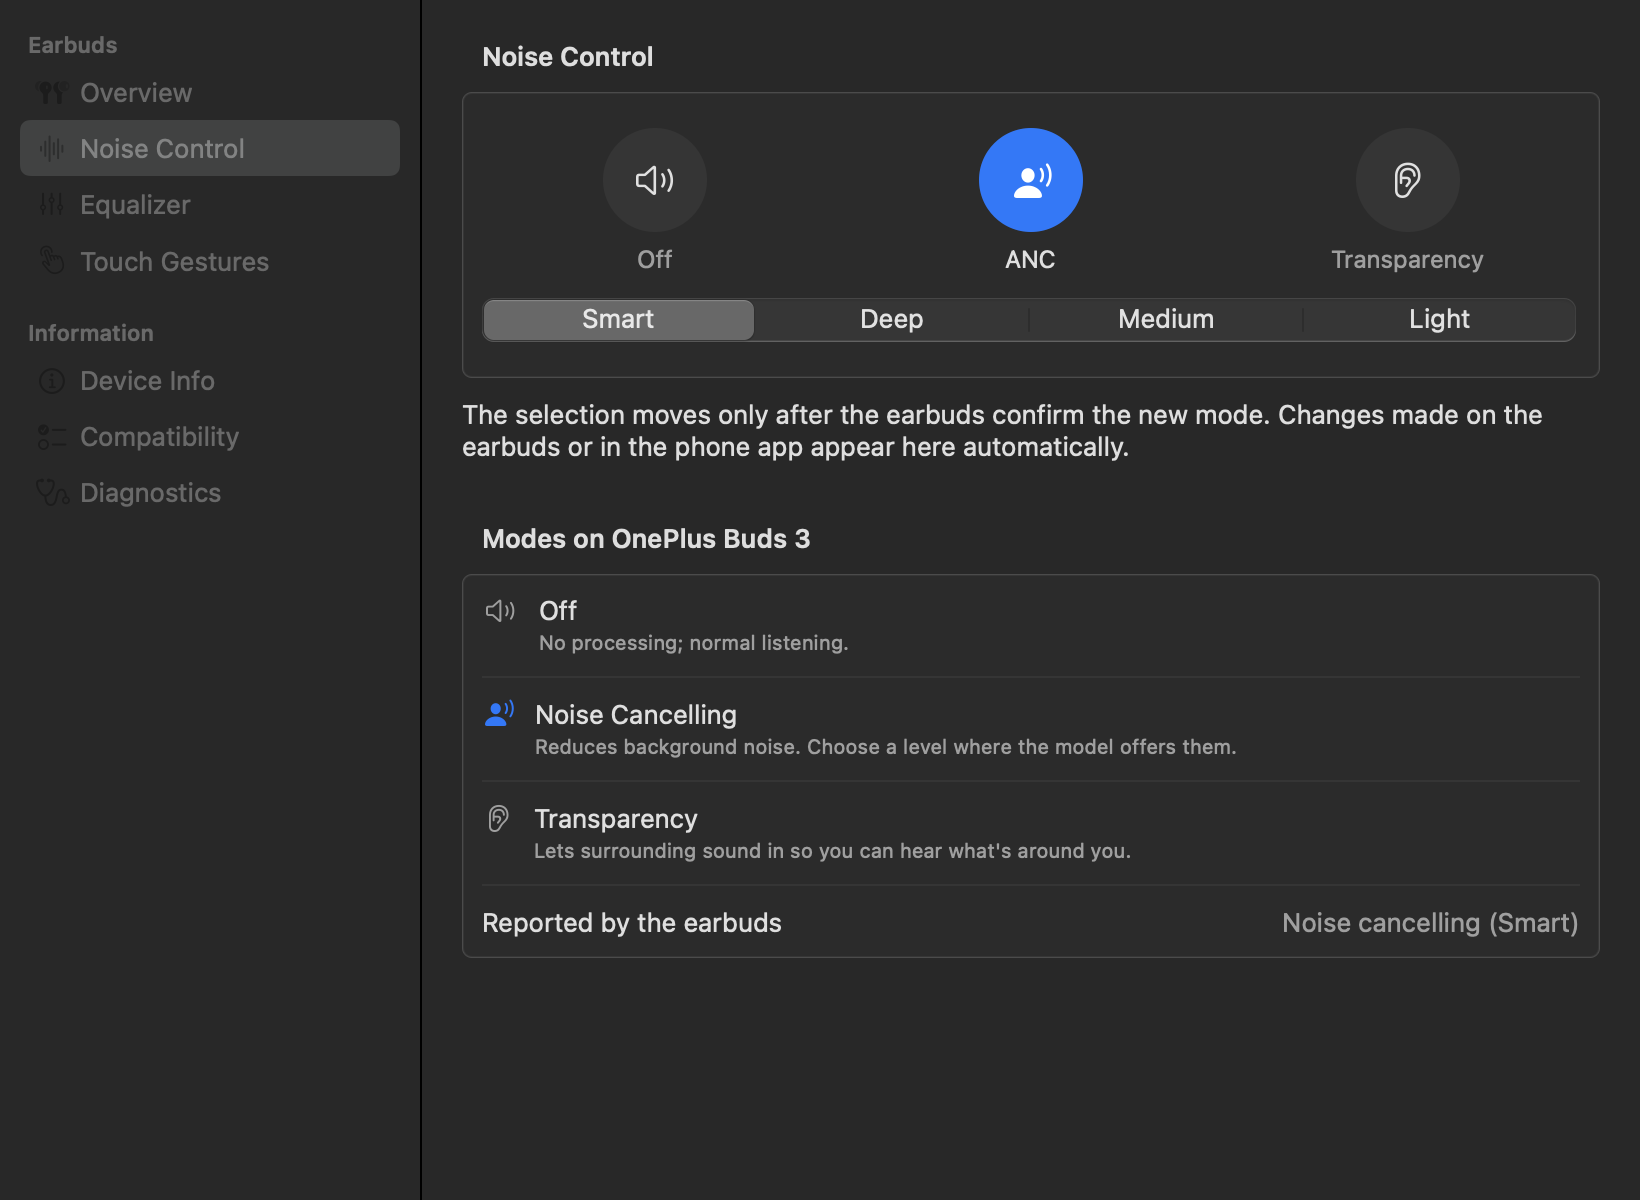
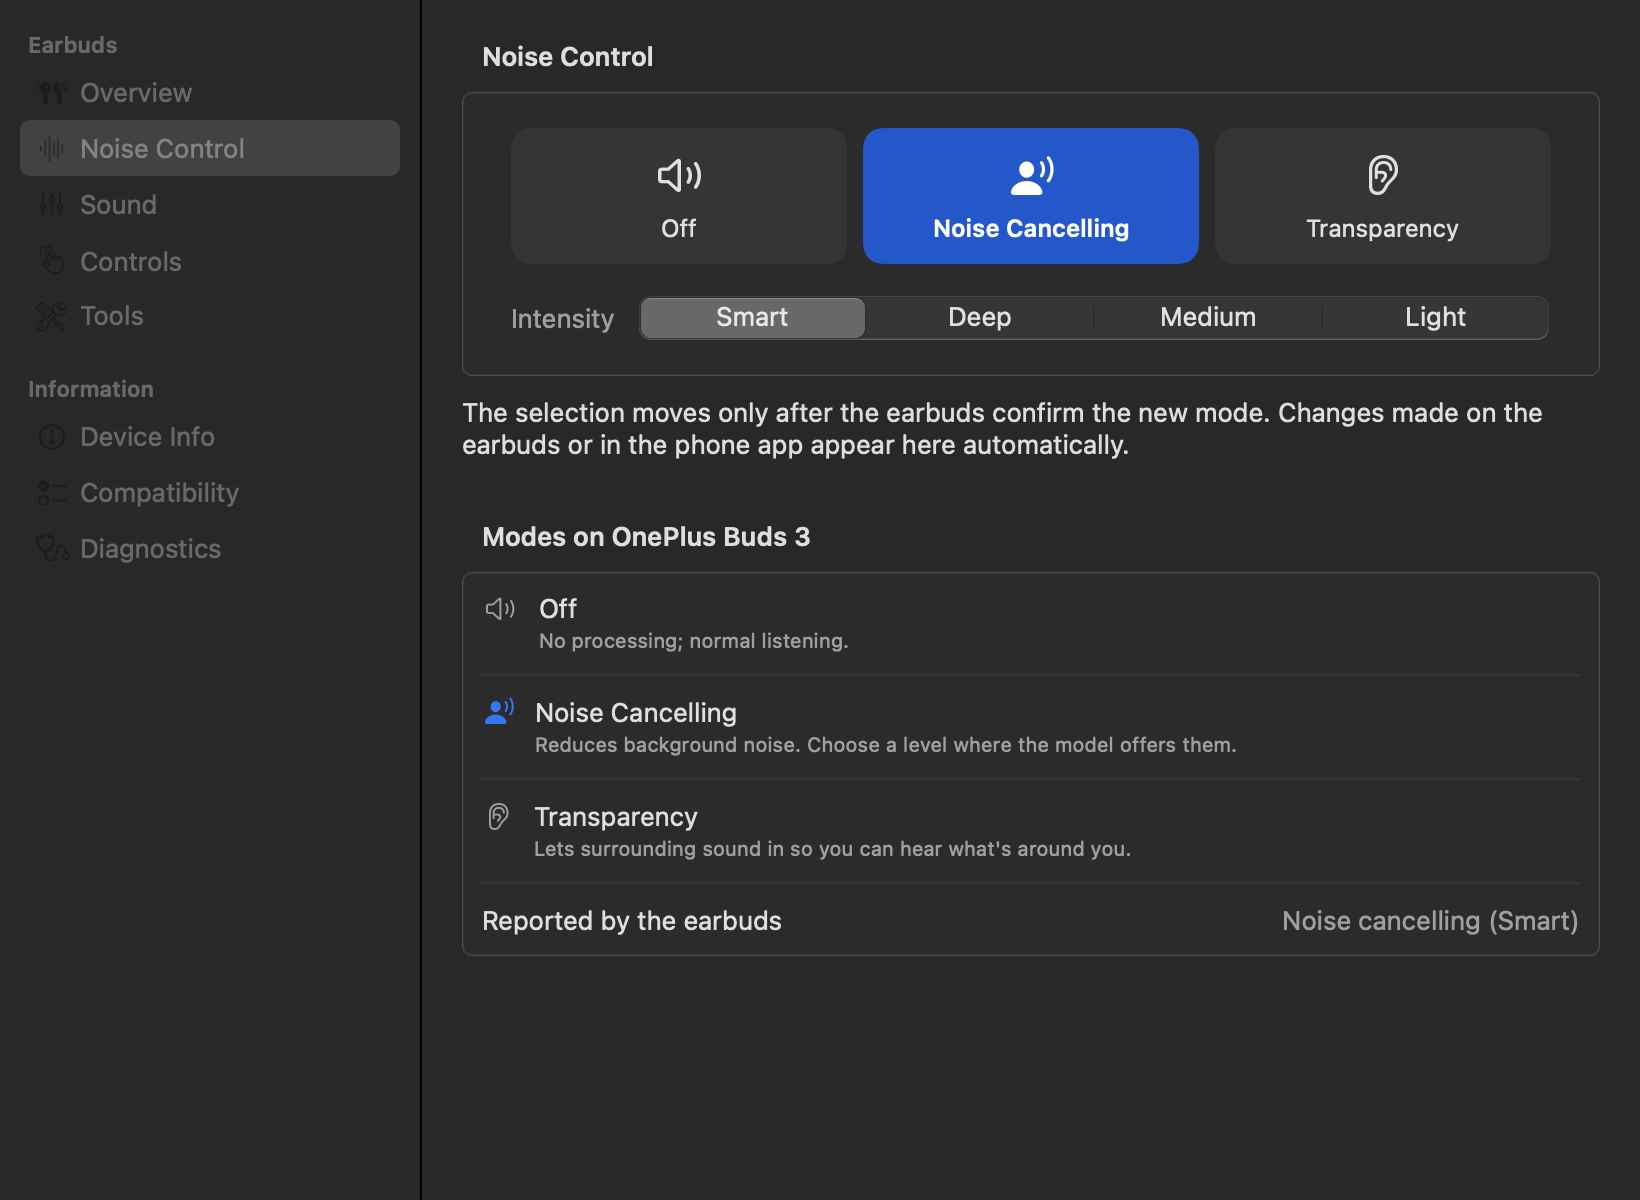
docs: model catalogue, GATT results, new sources, screenshots and MIT licence

diff --git a/README.md b/README.md
@@ -45,11 +45,12 @@ OnePlus Buds sound great on a Mac, but every setting lives in an Android or iOS 
 
 ### Menu-bar popover
 
-- Connection state at a glance
-- Left, right and case battery rings, with charging indicators
-- Noise-control modes, with an ANC level picker on models that have levels
-- Game mode
-- Open OneBuds, Settings… (<kbd>⌘</kbd><kbd>,</kbd>) and Quit
+- Connection state, with a one-click connect / disconnect button
+- Left, right and case battery rings, with charging and in-ear status
+- Round noise-control buttons, with an ANC level picker on models that have levels
+- The Mac's output volume
+- **Sound**, **Controls**, **Features** and **Tools** tiles, each sliding in its own page: EQ presets, BassWave, 3D audio, touch gestures, the noise-control cycle, call controls, feature switches, find my earbuds and the fit test
+- Open OneBuds, Settings (<kbd>⌘</kbd><kbd>,</kbd>) and Quit
 
 </td>
 <td width="50%" align="center">
@@ -89,10 +90,11 @@ When the earbuds connect, a small floating card appears at the top right of the 
 
 | Section | What it does |
 |---|---|
-| **Overview** | Hero card, battery, noise control and feature toggles |
+| **Overview** | Hero card, battery, noise control and feature toggles (game mode, in-ear detection, dual connection, smart volume) |
 | **Noise Control** | Off, ANC and Transparency, plus ANC levels per model |
-| **Equalizer** | The model's EQ presets as cards |
-| **Touch Gestures** | A Left / Right table for each gesture, offering only functions documented for that model |
+| **Sound** | The model's EQ presets, custom presets you draw with six faders, BassWave with its strength, and 3D audio |
+| **Controls** | A Left / Right table for each gesture, the touch-and-hold noise cycle, and call controls, offering only functions documented for that model |
+| **Tools** | Find my earbuds, the ear-tip fit test, and the Golden Sound hearing test |
 | **Device Info** | Model, firmware components and transport |
 | **Compatibility** | What each known model supports, and the evidence behind it |
 | **Diagnostics** | Read-only Bluetooth inspection, an opt-in packet log, and redacted export |
@@ -100,6 +102,14 @@ When the earbuds connect, a small floating card appears at the top right of the 
 <p align="center">
   <img src="Documentation/Screenshots/window-equalizer-light.png" width="49%" alt="Equalizer presets">
   <img src="Documentation/Screenshots/window-gestures-light.png" width="49%" alt="Touch gesture table">
+</p>
+<p align="center">
+  <img src="Documentation/Screenshots/window-tools-light.png" width="49%" alt="Tools: find my earbuds, fit test, Golden Sound">
+  <img src="Documentation/Screenshots/sheet-eq-editor-light.png" width="38%" alt="Custom EQ editor">
+</p>
+<p align="center">
+  <img src="Documentation/Screenshots/popover-page-sound-light.png" width="30%" alt="Popover Sound page">
+  <img src="Documentation/Screenshots/popover-page-controls-light.png" width="30%" alt="Popover Controls page">
 </p>
 
 ### Also included
@@ -110,6 +120,7 @@ When the earbuds connect, a small floating card appears at the top right of the 
 - **Appearance settings:** Theme (System, Light or Dark) and Style (Standard or Glass). Glass uses real Liquid Glass when built with the macOS 26 SDK and run on macOS 26 or later, and falls back to Standard when Reduce Transparency is on.
 - **Demo mode** with a simulated-model picker, so you can preview each model's controls without earbuds. It is labelled **DEMO** everywhere.
 - **Launch at login** and an optional battery percentage in the menu bar.
+- **Low-battery alerts:** a notification when an earbud drops to 10, 20 or 30% (Settings → General).
 
 #### Keyboard shortcuts
 
@@ -124,13 +135,14 @@ When the earbuds connect, a small floating card appears at the top right of the 
 
 | Model | Status | Notes |
 |---|---|---|
-| **OnePlus Buds 3** (`063C14`) | 🟢 **Verified** (fw 127.127.101) | Classic Bluetooth, RFCOMM channel 15. Verified: battery, all noise modes and ANC levels, EQ presets, game mode, touch gestures, device info and live updates. Experimental: in-ear detection and dual connection. |
-| OnePlus Nord Buds 3 Pro (`064414`) | 🟡 Experimental | The protocol reference model. Not tested with OneBuds. |
+| **OnePlus Buds 3** (`063C14`) | 🟢 **Verified** (fw 127.127.101) | Bluetooth LE (GATT) first, Classic Bluetooth (RFCOMM channel 15) as fallback; both routes passed the same 17/17 feature test. Verified: battery, all noise modes and ANC levels, EQ presets, game mode, touch gestures, device info and live updates. Experimental: in-ear detection and dual connection. |
+| OnePlus Nord Buds 3 Pro (`064414`) | 🟡 Experimental | The protocol reference model: noise levels, EQ, gestures, switches. Not tested with OneBuds. |
 | realme Buds Air 5 (`062012`) | 🟡 Experimental | The same OPO protocol with realme's own values: noise levels Light / Deep / Medium / Smart, realme EQ presets and gestures. Tries the 079A service first, then the standard serial port. Not yet tested on hardware. |
 | realme Buds T300 (`062412`) | 🟡 Experimental | As for the Air 5, but noise control has no levels (Off / Transparency / ANC) and there is no in-ear detection. Not yet tested on hardware. |
 | realme Buds Wireless 2 | 🔴 Unsupported | Uses realme's older, undocumented realme Link protocol, not OPO. Adding it needs an Android Bluetooth capture. |
-| Other realme TL models (Air 5 Pro, Air6, Air6 Pro, Air7 Pro, T310) | ⚪ Unknown | Diagnostics only. |
-| Other OnePlus models (Buds 4, Pro 2/3, Nord Buds 3, Buds Pro) | ⚪ Unknown | Diagnostics only. OneBuds never sends commands to them. |
+| 73 more OnePlus, OPPO and realme models (Buds 4, Buds Pro 2/3, Nord Buds 3/4, Enco Air/Free/X series, Enco Buds2, realme Air 5 Pro…Air8 Pro, T-series, Wireless 3/5) | 🟡 Experimental | Built from published protocol data; each model shows only the features with published values. Full list with features: [Documentation/ModelCatalog/Models.md](Documentation/ModelCatalog/Models.md). |
+| Older or undocumented models (legacy 1107 service such as Buds Pro, catalogue entries without values) | ⚪ Unknown | Diagnostics only. OneBuds never sends commands to them. |
+| realme Link type 2 and DIZO models, OPPO models without a control channel | 🔴 Unsupported | Not the OPO protocol. |
 
 Unsupported features are hidden, and experimental ones carry an **Experimental** badge. The evidence for every feature is in [Documentation/Features.md](Documentation/Features.md). Sources and licences are in [Documentation/ProtocolSources.md](Documentation/ProtocolSources.md).
 
@@ -220,6 +232,7 @@ flowchart TD
 - **Concurrency:** Swift 6 language mode with strict concurrency checking, and no suppressed warnings. Core Bluetooth and IOBluetooth objects stay on the main actor, and callbacks are copied, then hopped. The protocol session is an actor.
 - **Transports are single-use.** A reconnect creates a new transport, and every value learned from the device is reset on disconnect.
 - **Per-model parameters live in [`DeviceRegistry.swift`](Sources/OneBudsCore/DeviceRegistry.swift):** product IDs, noise-mode bytes, EQ presets, writable feature IDs and allowed gesture functions. Nothing model-specific is hard-coded in the protocol layer.
+- **Capabilities are detected, never assumed:** [`CapabilityEngine.swift`](Sources/OneBudsCore/CapabilityEngine.swift) checks each feature against the model's profile, the parameters its commands need, the earbuds' own capability list and the Bluetooth route in use (GATT or RFCOMM), and records why. It can only hide a control, never add one. Unknown devices get diagnostics only. Confirmed results are cached per model ([`CapabilityCache.swift`](Sources/OneBudsCore/CapabilityCache.swift)) as a hint for the next connection. A cached result is dropped when the firmware, the capability list or the profile changes. To add a model, add its profile to the registry; the engine needs no changes.
 - **Code layout:** the app is organized by feature (`App/`, `Design/`, `Components/`, `ConnectionCard/`, `Popover/`, `Window/`, `Settings/`, `Dev/`), one type per file.
 
 <details>
@@ -326,6 +339,12 @@ The app has two development aids, each triggered only by an environment variable
 ## Credits
 
 The protocol research behind this app is by Aasheesh, Vedanth Jadhav, spizganed (QuickBuds), Zhaoyi-ya (OppoPodsManager), the OppoPods authors, kunalagra (OtoControl), Aniket Budhwani (OPPO-Earbuds-Mac-Controller) and Vedat Kılıç (galaxy-buds-mac). OneBuds' code is written independently from those documented facts; see [THIRD_PARTY_NOTICES.md](THIRD_PARTY_NOTICES.md).
+
+## License
+
+OneBuds is open source under the [MIT License](LICENSE), © 2026 Himanshu Singh. You may use, copy, change and share it, as long as the copyright and licence notice stay with it.
+
+The MIT License covers OneBuds' own code only. The protocol references listed in [ProtocolSources.md](Documentation/ProtocolSources.md) keep their own licences; no code from them is included (see [THIRD_PARTY_NOTICES.md](THIRD_PARTY_NOTICES.md)).
 
 <br>
 

diff --git a/Documentation/Features.md b/Documentation/Features.md
@@ -10,7 +10,7 @@ This file records, for each feature, the protocol bytes, the expected response, 
 - **Observed:** the earbuds answered on the owner's hardware with the documented layout, but the owner has not yet confirmed the values.
 - **Experimental:** implemented from documentation and tested only against the simulator.
 
-**Test device:** owner's OnePlus Buds 3, product ID `063C14`, firmware **127.127.101**. Transport: RFCOMM channel 15 (`"enco link"`, SDP `0000079A-…`) on macOS 15.7.3. Captured on 2026-10-12. Replies are kept as test fixtures in `Tests/OneBudsCoreTests` (`CapturedBuds3Fixtures`).
+**Test device:** owner's OnePlus Buds 3, product ID `063C14`, firmware **127.127.101**. Transport: RFCOMM channel 15 (`"enco link"`, SDP `0000079A-…`) on macOS 15.7.3. Captured on 2026-10-12. The same feature test passed over BLE GATT (`0100`/`0200079A`) on 2026-11-03; OneBuds now tries GATT first and falls back to RFCOMM (Settings ▸ General ▸ Connection). Replies are kept as test fixtures in `Tests/OneBudsCoreTests` (`CapturedBuds3Fixtures`).
 
 | Feature | Request | Expected reply | Verification method | OnePlus Buds 3 (fw 127.127.101) | Limitations |
 |---|---|---|---|---|---|
@@ -28,12 +28,20 @@ This file records, for each feature, the protocol bytes, the expected response, 
 | Game mode / in-ear detection / dual connection | Read `0x010D <n> <ids>` → `00 <n> [<id> <v>]…`. Set `0x0403 <id> <0/1>` → `00`, then read-back | IDs: `06` game, `04` wear, `11` dual | Read-back | **Verified:** game mode `06` set on/off and read back. In-ear `04` toggles and is confirmed, but its *effect* is unconfirmed (Experimental). Dual `11`: read only (Experimental). | IDs `17` (restarts the buds) and `18` (drops the link) are never writable |
 | Touch gestures | Read `0x0108` → `00 <n> [<side> <btn> <act> <fn>]…`. Set `0x0401 <n> [entries]` → `00`, then read-back | Functions are limited to the profile's per-action list | Read-back | **Observed read:** 12 entries (per earbud: single, double, triple, hold, long-hold and slide). Double tap = `06` (next), triple tap = `05` (previous). **Verified:** left double tap set to Voice assistant and restored, both read back. | Long-hold and call gestures are not editable |
 | Multi-device list | push `0x0204 06 …` | Contains other devices' addresses and names | — | **Observed** unsolicited on connect | **Always redacted** in logs and exports, and never displayed |
+| Wear read | `0x0109` | `[00] <n> [<comp> <status>]…` | Read once on connect if no push arrived yet | **Experimental:** bitmap bit 4 set; never queried yet | Read only |
+| Custom EQ | Read `0x0122` → `00 <n>` + per preset `<sel> <min> <max> <id> <len> <name> <n> [<freq LE16> <gain>]…`. Write `0x0418 <1 create/2 save/3 delete> <-max> <max> <id> <len> <name> <n> <bands>` | `00`, then the list is read back | Create: a new id with the name appears (ids are renumbered). Save: the gains match. Delete: one fewer, the name is gone. Built-in ids are refused. | **Experimental:** bitmap bit 34 set; untested on Buds 3. Band layout copied from presets already on the buds, else S4's Buds 4 layout (62 Hz–16 kHz, ±6 dB, 3 presets) | Names are 1–16 ASCII characters |
+| BassWave | Switch `0x1D`; strength read `0x0124` → `00 FB 05 <s8>`, set `0x041B FB 05 <s8>` (−5…+5) | `00`, then read-back | Read-back | **Experimental:** bitmap bit 38 set; untested | — |
+| 3D audio / smart volume | Switches `0x1B` / `0x1C` | `00`, then read-back | Read-back | **Experimental:** listed for Buds 3 in S4; untested | Hi-Res `0x18` stays never writable |
+| Noise-control cycle | Read `0x010C 02 01` → `00 02 01 <mask>`; set `0x0404 02 01 <mask>`. Bits: Off 0, ANC 1, Transparency 2 | `00`, then read-back; push `0x0204 03 02 01 <mask>` | Read-back | **Experimental:** bitmap bit 8 set; the `02 01` read was never sent to Buds 3 | At least one mode stays selected |
+| Call controls | Gesture entries with side `04`, button `06`: double tap `00`/`1D` answer–end, long hold `00`/`1C` decline | `00`, then gesture read-back | Read-back | **Experimental:** Buds 3's table had no call entries on 127.127.101, so the section stays hidden there | — |
+| Find my earbuds | `0x0400 01` start, `0x0400 00` stop | `00` | Acknowledgement only (no state to read) | **Experimental:** bitmap bit 5 set; untested | Loud. Only on a click, with a warning next to the button |
+| Fit test | `0x0405 01`, result push `0x0204 04 [<side> <status>]…` (1 good, 0 average, 6 poor), then `0x0405 00` | `00` + push within 15 s | The push itself is the result | **Experimental:** bitmap bit 9 set; event `04` offered and subscribed | Needs both buds in |
+| Golden Sound hearing test | Start `0x040D 02 01`; tone `0x040E 03 01 <side> <freq> <level>`, stop `0x040E 04`; filter `0x0116 0C <36 bytes> <uid BE32>`; restore `0x0411 01 01 01 00 <type>`; store `0x040E 03 0C <36 bytes> <uid> <name>`; read `0x0115`; switch `0x0B` on; end `0x040D 02 00` | `00` per step; status pushes `0x0204 08 <kind> <status>` | The stored profile is read back (uid and values must match), then the switch | **Experimental:** bitmap bits 19 and 25 set; untested. Sequence from S4 section 20 | Tones start quiet and never go above level +10 |
+
+**Mac-side features** (no earbud protocol): the output-volume slider (CoreAudio, default output device) and low-battery notifications (UserNotifications; once per crossing, re-armed 5% above the threshold or when charging).
 
 **Not implemented:**
 
-- Custom EQ curves
-- Find my earbuds (plays a loud sound)
-- Spatial audio
 - Hi-Res
 - Power saving
 - Firmware update

diff --git a/Documentation/HardwareTestChecklist.md b/Documentation/HardwareTestChecklist.md
@@ -37,6 +37,22 @@ Before you start:
 - [ ] Game mode, in-ear detection and dual connection: switch each one and switch it back. Each change is confirmed. Check that the behaviour actually changes (for example, in-ear detection pauses music when you take a bud out).
 - [ ] Touch Gestures: change Left → Double tap to **Play / pause**. It is confirmed, and double tap now plays and pauses. Restore it to **Next track**.
 
+## New features (Experimental until checked here)
+
+Each one is read back from the earbuds before it shows as done. Note anything that is acknowledged but doesn't sound or behave right.
+
+- [ ] Popover: the four tiles open their pages with a slide, and Back (or <kbd>Esc</kbd>) returns.
+- [ ] Popover volume slider moves the Mac's volume, and follows the keyboard volume keys.
+- [ ] Battery rings say "in ear" / "in case" correctly as you move the buds.
+- [ ] **Sound → Custom Presets:** New Preset, change a few faders, Save. It appears in the list and you hear it. Edit it, then Delete it.
+- [ ] **BassWave:** turn it on, move Strength to +5 and to −5, then turn it off. Each is confirmed and audible.
+- [ ] **3D audio** and **Smart volume:** on, then off. Each is confirmed.
+- [ ] **Controls → Noise-Control Cycle:** untick Off. Touch-and-hold now skips Off. Tick it again.
+- [ ] **Tools → Find My Earbuds** (buds out of your ears!): Play, then Stop.
+- [ ] **Tools → Fit Test** with both buds in: you get a result for each side within 15 s.
+- [ ] **Tools → Golden Sound:** run the hearing test, Save to Earbuds, and check Golden Sound shows on.
+- [ ] Settings → General → **Low-battery alerts**: allow notifications when asked. (To test without waiting for a flat battery, set the threshold to 30% when a bud is at or below it.)
+
 ## Phone competition (hypothesis from mac.md §7)
 
 - [ ] Phone Bluetooth **on**, HeyMelody **open**: does OneBuds still connect and control? Change a mode in HeyMelody: does OneBuds follow?
@@ -60,4 +76,6 @@ Before you start:
 |---|---|---|---|---|
 | 2026-10-12 | 127.127.101 | Connect + read all (app self-test) | Observed: all reads OK over RFCOMM ch 15 | First run: buds in the open case (100/100/100, Off). Second run: buds worn (L/R 100, ANC Smart). Done by Claude with owner approval; values not yet confirmed by the owner. |
 | 2026-10-12 | 127.127.101 | Feature test (owner-requested) | **17/17 PASS**, all restored | Noise: all 7 modes. EQ: presets 1/2/3 and back to 0. Game mode and in-ear switch: on/off. Left double-tap gesture: changed and restored. Pushes: 9 noise, 4 EQ. Dual connection skipped at the owner's request. |
+| 2026-11-03 | 127.127.101 | Feature test over **BLE GATT** (owner-requested, `ONEBUDS_TRANSPORT=bleOnly`) | **17/17 PASS**, all restored | Same steps as the RFCOMM run. GATT `0100`/`0200079A` found via `retrieveConnectedPeripherals`; connect + reads in 3.0 s (RFCOMM: 1.2 s). Read-only startup also passed in Automatic (picked GATT) and RFCOMM-only modes. |
+| 2026-11-03 | 127.127.101 | Switch back RFCOMM → GATT (`ONEBUDS_ROUTESWITCHTEST_OUT`, read-only) | **PASS** in 2.7 s | Connected over RFCOMM, preference set to Automatic, manager switched to GATT and re-read battery/noise/EQ with identical values. Reviewed GATT code re-checked: GATT-only 3.4 s, Automatic 2.8 s (picked GATT). |
 | 2026-10-12 | 127.127.101 | Owner check of the redesigned UI (popover, Settings, menu shortcuts, gestures) | Owner reported "everything working" | Latest build installed to /Applications at 12:37. |

diff --git a/Documentation/ProtocolSources.md b/Documentation/ProtocolSources.md
@@ -39,6 +39,10 @@ Commit SHAs pin the exact revision that was read.
 | S13 | [timschneeb/GalaxyBudsClient](https://github.com/timschneeb/GalaxyBudsClient) | **GPL-3.0**, © 2021 Tim Schneeberger | `master` @ `754b6fdfb1c151b022cece775c8aaad4eb185afa` (2026-10-01) | **Read only.** Architecture ideas and IOBluetooth pitfalls. |
 | S14 | [vedatkilic/galaxy-buds-mac](https://github.com/vedatkilic/galaxy-buds-mac) (Swift 6, IOBluetooth RFCOMM) | **MIT**, "Copyright (c) 2026 Vedat Kılıç" | `main` @ `3ffedf8217695075188ac4a6b1d0664022f58d92` (2026-09-06) | **Reusable with attribution.** Release notes record macOS lessons. |
 | S15 | Gadgetbridge ([codeberg.org/Freeyourgadget/Gadgetbridge](https://codeberg.org/Freeyourgadget/Gadgetbridge)) OPPO/realme support and its BT reverse-engineering guide (now at gadgetbridge.org/internals/development/bluetooth/) | **AGPL-3.0** | `master` @ `862ec6cb4ed40dbb484a2655de64b91444f43773` (2026-10-11) | **Read only.** Facts and the capture procedure. It has no OnePlus models. |
+| S16 | [eggmasonvalue/realme-unlink](https://github.com/eggmasonvalue/realme-unlink), hardware-tested on realme Buds Wireless 5 ANC (`051412`) | **No licence file** | `08f29eb` (read 2026-11-03) | **Read only.** Facts only (noise values, EQ ids, custom EQ id 4). |
+| S17 | [GazzasaurusRex/oneplus-buds-omarchy](https://github.com/GazzasaurusRex/oneplus-buds-omarchy), hardware-tested on OnePlus Buds Pro (fw 541.541.510) and Buds Pro 2 (fw 196.196.101) | MIT (as reported by the research pass; recheck before reusing code) | read 2026-11-03 | Facts only so far (Pro 2 noise tree, legacy 1107 handshake). |
+| S18 | OP-Buds-4-PC-Controls (independent OnePlus Buds 4 measurements, incl. Adaptive `0x0800`) | Not checked | read 2026-11-03 | Facts only. |
+| S19 | [GewoonJaap/oneplus-buds-macos](https://github.com/GewoonJaap/oneplus-buds-macos) and nic0manz/oneplus_buds3_pro_python (OnePlus Buds Pro 3) | Not checked | read 2026-11-03 | Facts only (Pro 3 noise masks, spatial `0x0422`). |
 
 ### Credits
 
